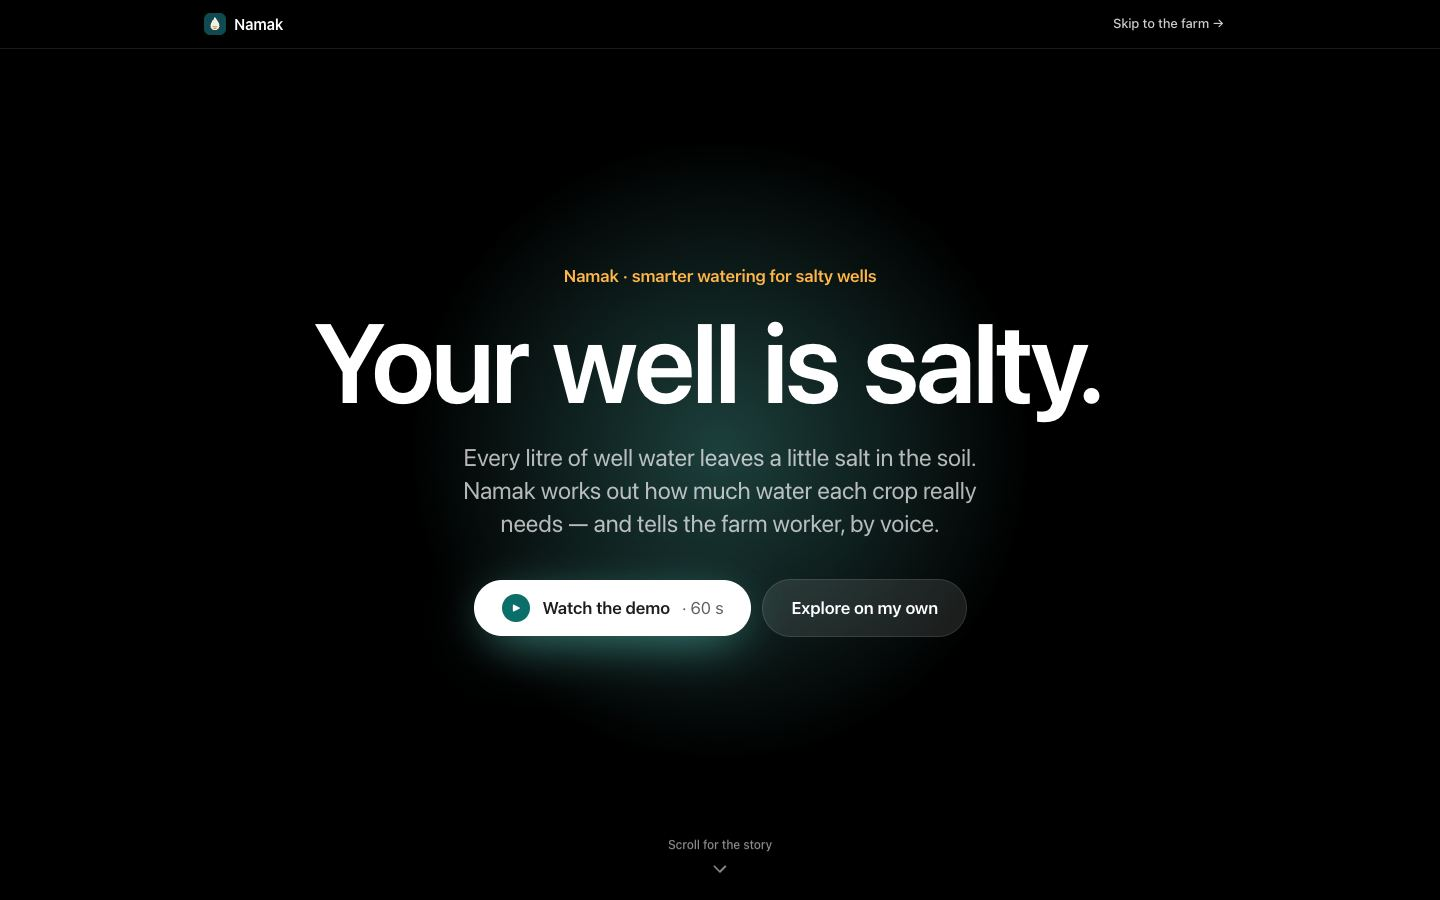
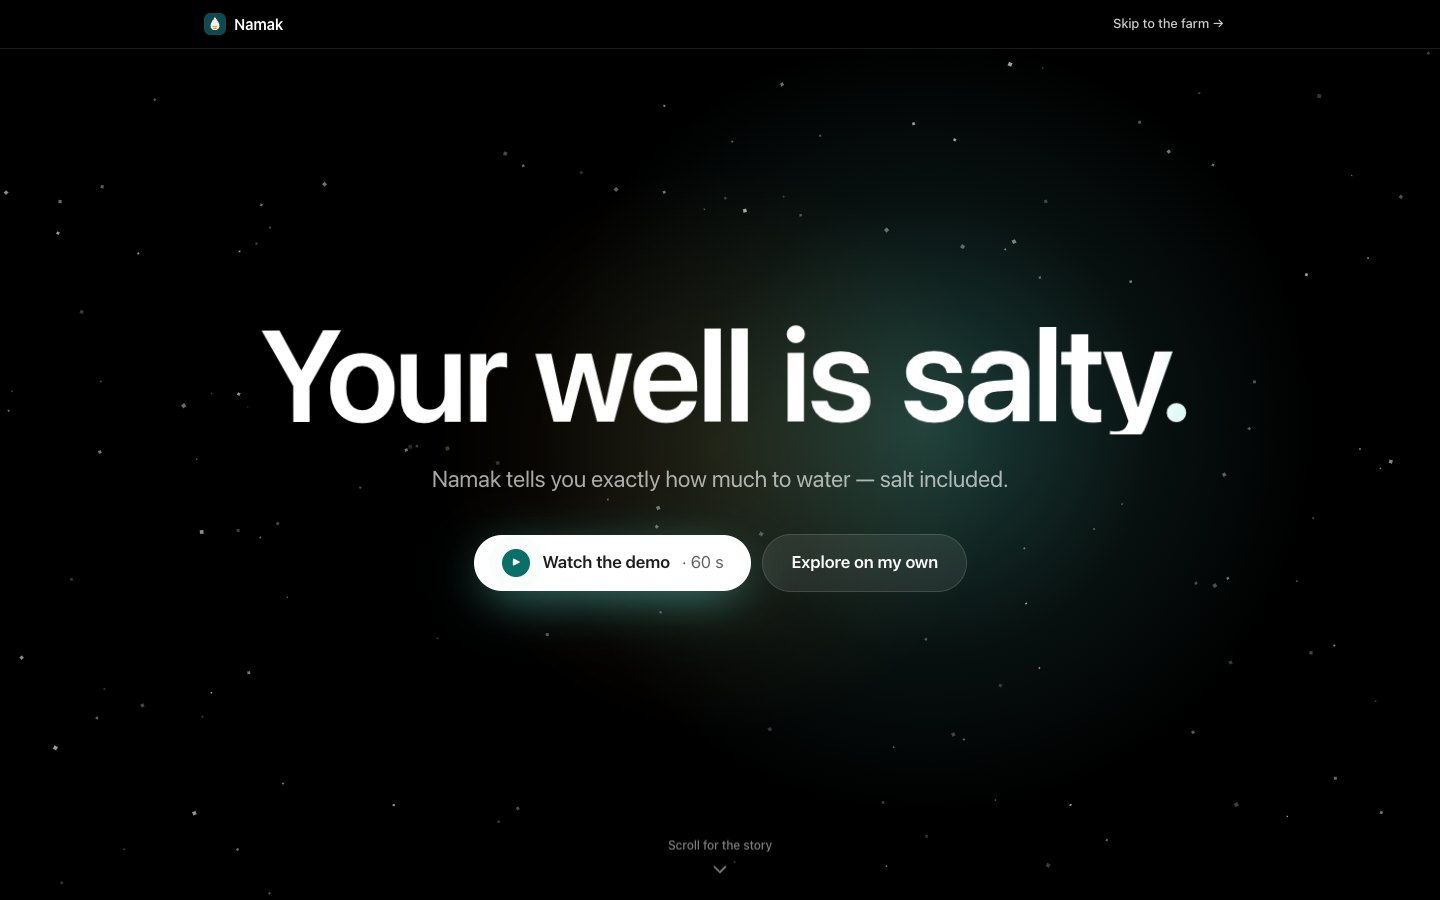
Clean repo for judges: README rewritten with the live link up top; personal notes untracked; new screenshots

Changed region(s): [[0.1875, 0.2489, 0.8438, 0.7467]]

diff --git a/README.md b/README.md
@@ -1,72 +1,104 @@
-# Namak — the salt-debt irrigation planner for desert farms
+<div align="center">
 
-> **Your well is salty. Every drop you pour adds to a salt debt your soil has to repay.
-> Namak tells your worker exactly how many minutes to open each valve tomorrow — and when to pay the debt down.**
+<img src="public/favicon.svg" width="76" alt="Namak logo">
 
-**Live:** https://namak-phi.vercel.app · **Problem:** Breaking Bytes A-001 “Smart Farming for the Desert” · built 16–17 Nov 2026
+# Namak
 
-*Namak* means salt in Hindi, Urdu and Persian.
+### Salt-aware irrigation for desert farms
 
-<p>
-<img src="docs/screenshots/0-welcome.jpg" width="820" alt="First screen: Your well is salty — Watch the demo or Explore on my own, scroll for the story">
+*Your well is salty. Namak tells you exactly how much to water — salt included —<br>and sends the plan to the farm worker as a voice message in their own language.*
+
+<br>
+
+<a href="https://namak-phi.vercel.app"><img src="https://img.shields.io/badge/%E2%96%B6%20%20Open%20the%20live%20app-namak--phi.vercel.app-0a6f69?style=for-the-badge" alt="Open the live app: namak-phi.vercel.app" height="40"></a>
+
+**[namak-phi.vercel.app](https://namak-phi.vercel.app)** · no login · press **Watch the demo** for a 60-second guided tour
+
+<br>
+
+![Breaking Bytes](https://img.shields.io/badge/Breaking%20Bytes-A--001%20Smart%20Farming%20for%20the%20Desert-1d1d1f?style=flat-square)
+![Tests](https://img.shields.io/badge/tests-84%20passing-2e7d32?style=flat-square)
+![Offline](https://img.shields.io/badge/works-offline-e08a1e?style=flat-square)
+![Gemini](https://img.shields.io/badge/AI-Google%20Gemini-6f62ff?style=flat-square)
+![Science](https://img.shields.io/badge/science-UN%20FAO%2029%20%C2%B7%2056%20%C2%B7%2061-0a6f69?style=flat-square)
+
+<br>
+
+<a href="https://namak-phi.vercel.app"><img src="docs/screenshots/0-welcome.jpg" width="860" alt="Namak's first screen: Your well is salty."></a>
+
+</div>
+
+<br>
+
+## At a glance
+
+| | |
+|---|---|
+| **The problem** | Desert farms water from salty wells. Every watering leaves salt in the soil, so farmers must pour extra water to wash it out — and they **guess** how much. |
+| **What Namak does** | Works out tomorrow’s exact minutes for every valve from the real weather forecast, the crop and the well’s saltiness — water for the plant **plus** just enough to wash the salt away. |
+| **Who it reaches** | The person who actually opens the valves: a hired worker, often in another language. Namak sends the plan as a **voice message in English, Hindi or Arabic**, written and voiced by Gemini. |
+| **The result** | Replayed on a real year of weather: **19 % less water**, palms too salty on **1 day instead of 120**, tomato yield **87 % → 100 %**. |
+| **What it costs** | A ~AED 100 salt meter (EC pen). No sensors, no subscription, works with no signal. |
+
+## The problem, from the start
+
+<table>
+<tr>
+<td width="50%"><img src="docs/screenshots/0b-why-salt.jpg" alt="Salt piles up around the roots until the plant can't drink"></td>
+<td width="50%"><img src="docs/screenshots/0c-washed.jpg" alt="A little extra water washes the salt down past the roots"></td>
+</tr>
+<tr>
+<td><b>The water goes, the salt stays.</b> Plants drink the well water and the sun dries the soil, but the salt is left behind. Day after day it piles up around the roots until the plant can’t drink — even in wet soil — and the harvest shrinks.</td>
+<td><b>The fix is a little extra water</b> that soaks past the roots and carries the salt down. Too little and the salt comes back; too much wastes water the desert can’t spare. The right amount changes with the well, the crop and every day’s weather.</td>
+</tr>
+</table>
+
+Everyone asks *“how much water does the crop need?”* In the desert that is only half the question. Namak is built around
+three problems hidden inside it:
+
+1. **Salt is the hidden water cost.** The extra water needed to wash salt out — FAO’s *leaching requirement* — is real,
+   large and never calculated on the farm. On the example farm it is **2,230 m³ a year, almost a fifth of all its water.**
+2. **Salt builds up like a debt.** Watering by habit (the same minutes every day) over-waters in winter and under-washes in
+   summer, so salt accumulates for months. Namak keeps a running **Salt Debt** for each crop and pays it back on the
+   **coolest days of the week**, when plants drink least — timing the UN’s FAO explicitly recommends.
+3. **The decision-maker isn’t at the valve.** The owner plans; a hired worker opens the valves. Namak speaks to the
+   worker directly, by voice, in their language — and the worker closes the loop with one photo of a cheap salt meter.
+
+## What’s in the app
+
+<p align="center">
+<img src="docs/screenshots/1-tomorrow.jpg" width="190" alt="Plan: tomorrow's minutes per valve">&nbsp;
+<img src="docs/screenshots/2-habit-vs-namak.jpg" width="190" alt="Results: water saved">&nbsp;
+<img src="docs/screenshots/3-replay.jpg" width="190" alt="Results: last year replayed">&nbsp;
+<img src="docs/screenshots/4-worker.jpg" width="190" alt="AI assistant: the farmer's chat in Hindi">
 </p>
-<p>
-<img src="docs/screenshots/1-tomorrow.jpg" width="200" alt="Tomorrow screen: total watering time, habit vs Namak, send to worker">
-<img src="docs/screenshots/2-habit-vs-namak.jpg" width="200" alt="Habit vs Namak: salt costs this farm 2,230 m³ of water a year">
-<img src="docs/screenshots/3-replay.jpg" width="200" alt="Season replay on ERA5 weather: water and salt debt, habit vs Namak">
-<img src="docs/screenshots/4-worker.jpg" width="200" alt="AI assistant: the farmer’s chat with Namak, voice message in Hindi">
-</p>
-
----
-
-## The problem inside the problem
-
-Everyone asks *“how much water does the crop need?”* In the desert that is only half the question.
-
-1. **Salt is the hidden water cost.** Many desert wells are brackish. To stop salt building up, some water
-   must drain past the roots and carry the salt away — the *leaching requirement* (FAO-29). Growers guess it: too little
-   and the soil slowly poisons the crop; too much and the scarcest input on the farm is wasted. Nobody calculates it.
-2. **Salt Debt.** Every litre of brackish water leaves salt behind. Namak keeps a running balance of root-zone salt
-   against each crop’s tolerance — a debt — and schedules the repayment (extra leaching) on the coolest days of the week,
-   when the crop is using least water. FAO-29 explicitly supports this timing (see [Debt repayment](#debt-repayment-is-it-allowed)).
-3. **The decision-maker isn’t at the valve.** The owner decides; a hired worker — who may not read English — opens the
-   valves by habit (“45 minutes, every day”). Namak sends tomorrow’s exact minutes as a **voice note in the worker’s
-   language**, and the worker closes the loop by photographing a ~AED 100 EC pen. AI reads the display; the plan updates.
-
-## What it does (6 screens, mobile-first, no login)
-
-First visit opens the story page (“Your well is salty.”) with two buttons: **Watch the demo (60 s)** — a guided walkthrough
-that drives the real app by itself with plain-English captions (the slider moves, a meter photo is read and confirmed, the
-voice message plays; the farm is restored afterwards) — or **Explore on my own**. Scrolling down tells the story.
-The menu has four items: **Plan · Results · ✦ AI assistant · How it works** (farm settings behind the gear icon).
-Every screen explains the idea from scratch in everyday words; the technical maths sits behind “How we worked this out”.
-
 
 | Screen | What you see |
 |---|---|
-| **Plan** (tomorrow) | Total watering time, a card per valve (“Valve 1 · Palms · 95 min · 00:00 → 01:35”), one-line *why* (heat + salt), a Salt Debt gauge, blend advice, and the 7-day plan with repayment days marked. |
-| **Results · Water saved** | A year of real weather at the farm. Drag the **well-EC slider** and the salt water cost, water/AED saved and yield risk change live; when the water is too salty for a crop, Namak shows the RO/TSE **blend ratio**. |
-| **Results · Last year replayed** | Last year re-run day by day on **ERA5 reanalysis weather**: cumulative water and root-zone salt, habit vs Namak, animated. This is the proof that the decision beats the guess. |
-| **✦ AI assistant** | The farmer’s chat with Namak (Gemini) on a phone mock-up. Namak asks for a language (English, Hindi, Arabic; it replies in that language with an English line under it) → the farmer sends one of three example salt-meter photos → Gemini reads it → the farmer confirms → the plan recalculates with a visible before/after → Gemini writes tomorrow’s times in that language and sends them as a voice message. |
-| **Farm** (gear icon) | Location, well EC, blend water, valves (crop, plants, spacing, emitters, flow), soil test, the worker’s habit. Saved on the phone. |
-| **Why it works** | Sources, formulas, crop constants, real vs illustrative, limits, cost. |
+| **Story** (first screen) | “Your well is salty.” — a scroll-through explanation of the problem, with a 60-second **guided demo** that drives the real app by itself. |
+| **Plan** | Tomorrow’s total watering time and a card per valve (“Valve 1 · Palms · 95 min · 00:00 → 01:35”) with a one-line *why*, the Salt Debt gauge and the 7-day plan with repayment days marked. |
+| **Results · Water saved** | A real year at the farm. Drag the **well-salt slider** and watch the salt’s share of the water, the water and money saved and the yield risk change live; if the well is too salty for a crop, Namak suggests a blend with cleaner water. |
+| **Results · Last year replayed** | Last year re-run day by day on **ERA5 reanalysis weather**: water used and root-zone salt, habit vs Namak. The proof that the decision beats the guess. |
+| **✦ AI assistant** | The farmer’s chat with Namak on a phone: pick a language → send a photo of the salt meter → Gemini reads it → confirm → the plan recalculates (before/after shown) → Gemini writes tomorrow’s times in that language and sends them as a **voice message**. |
+| **How it works** | Sources, formulas, crop constants, what is real vs illustrative, limits and cost. |
+| **Farm** (gear icon) | Location, well salt level, valves, crops, emitters, soil test and the worker’s habit. Saved on the phone. |
 
-## Does the decision beat the guess?
+## Does it beat the guess?
 
-Illustrative demo farm near Al Ain (30 date palms, 1 000 m² fodder, 600 m² tomato; well 3.2 dS/m), replayed on **real
-ERA5 weather, 11 Nov 2025 – 10 Nov 2026** (tomato: its Oct–Mar season). Habit = the worker’s summer setting left on all year.
+An example farm near Al Ain (30 date palms, 1,000 m² fodder, 600 m² tomato; well 3.2 dS/m), replayed on **real ERA5
+weather, 11 Nov 2025 – 10 Nov 2026** (tomato: its Oct–Mar season). *Habit* = the worker’s summer setting left on all year.
 
 | | Habit | Namak |
-|---|---|---|
-| Water, whole farm, 12 months | 14 686 m³ | **11 904 m³ (−19 %, ≈ AED 4 170/yr)** |
-| Of which spent flushing salt | not budgeted | 2 230 m³ (the hidden cost, now visible) |
+|---|---:|---:|
+| Water, whole farm, 12 months | 14,686 m³ | **11,904 m³ (−19 %, ≈ AED 4,170 / yr)** |
+| Of which spent washing out salt | not budgeted | **2,230 m³** — the hidden cost, made visible |
 | Date palm: days with root-zone salt over the limit | 120 | **1** |
 | Fodder: days over the limit | 89 | **0** |
-| Tomato: salt-limited yield | 87 % | **100 %** (needs 36 % RO water in the blend; uses ~2 % more water than habit) |
+| Tomato: salt-limited yield | 87 % | **100 %** |
 
-These numbers are asserted in [`src/engine/demo-claims.test.ts`](src/engine/demo-claims.test.ts) so they cannot drift
-silently. Namak is **not** always the lower-water option: on the salt-sensitive tomato it spends slightly more water and
-saves the crop. That is the point — water goes where the salt demands it, not where habit puts it.
+These numbers are asserted in [`src/engine/demo-claims.test.ts`](src/engine/demo-claims.test.ts), so they cannot drift.
+Namak is **not** always the lower-water option: for the salt-sensitive tomato it uses ~2 % *more* water (with 36 %
+cleaner RO water in the blend) and saves the crop. Water goes where the salt demands it, not where habit puts it.
 
 ## How it works
 
@@ -77,7 +109,7 @@ flowchart LR
     E[ERA5 via Open-Meteo<br/>last ~13 months]
     W[Well EC<br/>pen photo or manual]
   end
-  subgraph Engine["src/engine (pure TypeScript, 79 tests)"]
+  subgraph Engine["src/engine (pure TypeScript, 84 tests)"]
     K[Kc by stage + climate<br/>FAO-56 T11/T12, eq. 62]
     L[Leaching fraction<br/>FAO-29 four-layer method]
     S[Salt Debt<br/>FAO-61 Annex 4 salt storage]
@@ -92,12 +124,56 @@ flowchart LR
   E --> P
   W --> L --> P
   S <--> P
-  P --> UI[PWA: Tomorrow · Compare · Replay · Worker]
+  P --> UI[PWA: Plan · Results · AI assistant]
   UI --> I --> V
   UI -->|photo| R -->|confirmed| W
 ```
 
-### Formulas (units: mm over crop area, 1 mm on 1 m² = 1 L; EC in dS/m)
+- **Engine** — pure TypeScript in [`src/engine`](src/engine): crop water need (FAO-56), the leaching fraction (FAO-29),
+  a daily root-zone salt balance (FAO-61) and a planner that repays the salt debt on the lowest-evaporation days. Every
+  crop constant cites its FAO table; 84 tests include FAO’s own worked examples.
+- **Data** — the Open-Meteo forecast and ERA5 history. A recorded snapshot is bundled, so every screen works offline and
+  the demo shows the same numbers every day.
+- **AI** — three small server-side routes on Vercel. The engine decides the minutes; AI only translates, speaks and reads
+  a meter display.
+
+## How AI is used — Google Gemini, server-side only
+
+| Route | Model | What it does | Guard rails |
+|---|---|---|---|
+| `/api/instruct` | `gemini-4-hydrogen` | Turns the plan into two short sentences in the worker’s language | Every minute and start time is checked against the plan; any mismatch, timeout or no signal → a fixed template |
+| `/api/voice` | `gemini-3.8-flash-lite-tts` | Reads those sentences aloud as a voice message | Cached on the phone; fallback: the phone’s own voice |
+| `/api/read-ec` | `gemini-4-hydrogen` (vision, strict JSON) | Reads the number and unit off a salt-meter photo | Units converted (mS/cm = dS/m, µS/cm ÷ 1000), only 0–20 dS/m accepted, the farmer confirms before anything changes |
+
+The API key lives only in Vercel’s environment; per-IP limits and a daily cap protect it. Gemini’s output for the demo
+(9 voice messages in 3 languages and the readings of the 3 example meter photos) was generated once and is reused from
+[`public/demo`](public/demo) and [`src/data/demoAssets.json`](src/data/demoAssets.json) — the guided demo makes **no AI
+calls**, and a test fails if an engine change ever makes a saved message disagree with the plan.
+
+## Built for the desert
+
+- **Saves water** — −19 % on the example farm over a real year, with the salt share of every litre made visible.
+- **Weak signal, little time** — an installable web app that works fully offline after one visit (“Offline — plan synced …”
+  banner). One sync a week covers a 7-day plan. The worker needs no reading and no app: just a voice message.
+- **Affordable** — a ~AED 100 EC pen is the only hardware. AI calls are tiny and capped.
+
+## What is real, what is illustrative
+
+| Real | Illustrative |
+|---|---|
+| 7-day forecast: Open-Meteo (ET0, max temperature, min humidity, wind, sunrise) | The example farm’s layout, crops, emitters and the worker’s habit |
+| Historical weather: ERA5 reanalysis via Open-Meteo | Well salt level (3.2 dS/m) and soil tests |
+| FAO crop and salt constants and equations | Water price (AED 1.5 / m³) and the clean-water blend source |
+| Gemini’s messages, voices and meter readings | The three example meter photos are drawings made for the demo |
+
+Every number in the app carries a source label (“Live forecast · Open-Meteo”, “Historical weather · ERA5”, “Illustrative well EC”).
+
+<details>
+<summary><b>The science in detail — formulas, FAO validation, debt repayment, crop constants</b></summary>
+
+<br>
+
+#### Formulas (units: mm over crop area, 1 mm on 1 m² = 1 L; EC in dS/m)
 
 | Step | Formula | Source |
 |---|---|---|
@@ -123,7 +199,7 @@ for every crop.
 crop limit (≈ 4.5 vs 4.0 dS/m for palms at 3.2 dS/m water). Namak uses FAO-29’s more exact four-layer method so the
 daily plan and the debt model agree; eq. 9 is still computed and shown for comparison.
 
-### Debt repayment: is it allowed?
+#### Debt repayment: is it allowed?
 
 Yes. FAO-29 §2.4.2: leaching *“can be done at each irrigation, each alternate irrigation or less frequently, such as
 seasonally … as necessary to keep salinity below the threshold”*, and *“schedule leachings at periods of low crop water
@@ -134,7 +210,7 @@ doubling a day’s water so no valve is flooded.
 Valves run one after another (one pump) at night, finishing by sunrise. Night/pre-dawn timing is a design choice, not an
 FAO number: evaporation and wind losses are lowest and the water is in the root zone before the afternoon peak.
 
-### Crop constants (all read from the primary FAO pages on 16 Nov 2026)
+#### Crop constants (all read from the primary FAO pages on 16 Nov 2026)
 
 | Crop | Kc ini / mid / end (FAO-56 T12) | Stages, days (FAO-56 T11) | Root depth used, m (T22) | ECe 100 % / 90 % / 0 % (FAO-29 T4) | b, %/dS·m⁻¹ (FAO-56 T23) |
 |---|---|---|---|---|---|
@@ -149,58 +225,12 @@ Other constants: sand field capacity θFC = 0.12 (FAO-56 Table 19 midpoint of 0.
 table; it is editable in Farm setup. Rhodes grass (the usual UAE fodder) is in neither FAO salt table, so Bermuda grass,
 the nearest listed fodder grass, stands in for it.
 
-## Data: what is real, what is illustrative
+</details>
 
-| Real | Illustrative |
-|---|---|
-| 7-day forecast: Open-Meteo (`et0_fao_evapotranspiration`, `temperature_2m_max`, `relative_humidity_2m_min`, `wind_speed_10m_mean`, `sunrise`) | The demo farm’s layout, crops, emitters and the worker’s habit |
-| Historical weather: ERA5 reanalysis via Open-Meteo Archive API (`models=era5`) | Well EC (3.2 dS/m) and soil tests |
-| FAO crop and salt constants, FAO equations | Water price (AED 1.5/m³) and the RO blend water EC |
-| Gemini output (instructions, voice, EC reading) | The three sample EC-pen photos are drawings made for the demo |
+<details>
+<summary><b>Assumptions & limitations</b></summary>
 
-Every number in the UI carries a source tag (“Live forecast · Open-Meteo”, “Historical weather · ERA5 via Open-Meteo”,
-“Illustrative well EC”). A real-weather snapshot for the demo location is bundled so the demo works with no network.
-
-## Desert rules
-
-- **Water:** −19 % on the demo farm over a real year, and the salt share of every litre is made visible and budgeted.
-- **Weak connectivity, little time:** installable PWA; after one load every screen works offline with an
-  “Offline — plan synced …” banner; the last forecast, instructions and recorded voice notes are cached. One sync a week
-  is enough to keep a 7-day plan. The worker needs no reading and no app — a voice note.
-- **Affordable:** an EC pen (~AED 100) is the only hardware. No sensors, no subscription. AI calls are small (two sentences, a few seconds of
-  audio, one photo) and capped per day.
-
-## How AI is used (Gemini, server-side only)
-
-| Route | Model | Does | Guard rails |
-|---|---|---|---|
-| `/api/instruct` | `gemini-4-hydrogen` (thinking: low) | Plan → 2 sentences in the worker’s language | Every minute and start time is checked against the plan; if anything differs, too slow or offline → deterministic template |
-| `/api/voice` | `gemini-3.8-flash-lite-tts` | Text → voice message (WAV) | Generated only when someone presses Send, then cached on the device; fallback: the phone’s own voice |
-| `/api/read-ec` | `gemini-4-hydrogen` vision, strict JSON schema | Photo → value + unit | mS/cm = dS/m, µS/cm ÷ 1000, ppm rejected, 0–20 dS/m only. The app’s three example photos use readings this model produced once (saved in `src/data/demoAssets.json`) |
-
-The key lives only in Vercel’s environment (`GEMINI_API_KEY`); per-IP limits and a daily cap protect the quota. Model IDs
-and request formats were taken from Google’s docs on 16 Nov 2026 (Interactions API, `Api-Revision: 2026-05-20`).
-The AI never decides minutes: the engine does; AI only translates, speaks and reads a display.
-
-**All saved AI output lives in one place and is reused every day:**
-
-| What | Where |
-|---|---|
-| Gemini’s voice messages (3 example readings × English, Hindi, Arabic = 9 files, 1.3 MB) | `public/demo/voice-<reading>-<lang>.m4a` |
-| Their text, the plans they were made for, and Gemini’s readings of the three example meter photos | `src/data/demoAssets.json` |
-| The recorded real weather the site uses by default (forecast for 17 Nov 2026, ERA5 year to 10 Nov 2026) | `src/data/snapshot-forecast.json`, `src/data/snapshot-era5.json` |
-
-Re-running `scripts/make-demo-assets.mts` reuses every saved file whose plan has not changed, so it never pays twice.
-With the recorded weather (the default) the site makes no AI calls at all. Live mode is capped at 60 AI calls a day
-and shares each answer through Vercel’s CDN for 24 hours.
-
-**Generated once, reused:** the guided demo runs on a fixed *demo day* (the real forecast recorded on 16 Nov 2026). Its worker
-messages in all three languages, their voice recordings and the readings of the three example meter photos were produced once
-by Gemini (`scripts/make-demo-assets.mts`) and saved in the repo (`public/demo/`, `src/data/demoAssets.json`). The demo makes
-no AI calls, always shows the same result, and a test fails if an engine change ever makes the saved messages disagree with
-the plan. Outside the demo, a live message is generated only when someone presses *Send*, and is cached.
-
-## Assumptions & limitations
+<br>
 
 - Salt model: complete mixing within four root-zone layers, 40-30-20-10 % uptake, no capillary rise, adequate drainage,
   no salt from fertiliser or rain, no precipitation/dissolution chemistry; daily time step; soil back at field capacity
@@ -212,26 +242,20 @@ the plan. Outside the demo, a live message is generated only when someone presse
 - The demo farm is illustrative and has not been field-validated. Non-English templates have not yet been checked by
   native speakers.
 
-## Run it
+</details>
+
+## Run it locally
 
 ```bash
 npm install
-npm test            # 79 tests: engine, FAO cross-checks, demo claims, weather fallback, instruction checks
-npm run dev         # UI on http://localhost:5173 (AI routes need vercel dev)
+npm test        # 84 tests: engine, FAO cross-checks, demo claims, weather fallback, instruction checks
+npm run dev     # http://localhost:5173 (AI routes need `vercel dev` and a GEMINI_API_KEY in .env.local)
 ```
 
-With the AI routes:
+`scripts/` holds the data tools: `snapshot-weather.mjs` records the bundled weather, `make-demo-assets.mts` generates
+the saved Gemini output (reusing anything that hasn’t changed), and `warm-cache.mts` pre-fills the live AI cache.
 
-```bash
-echo "GEMINI_API_KEY=..." > .env.local         # never commit; .env* is git-ignored
-set -a; . ./.env.local; set +a; vercel dev
-```
-
-Deploy: `vercel env add GEMINI_API_KEY production`, then `vercel --prod`. Refresh the bundled weather snapshot with
-`node scripts/snapshot-weather.mjs`; regenerate the saved demo AI content with `npx tsx scripts/make-demo-assets.mts` (needs `GEMINI_API_KEY`).
-
-**Stack:** Vite · React 19 · TypeScript · Tailwind v4 · Motion (animation) · Recharts · vite-plugin-pwa · Vitest · Vercel functions · Gemini.
-Type: the device's system font (SF Pro on Apple devices), Inter elsewhere. All animation respects `prefers-reduced-motion`.
+**Stack:** Vite · React 19 · TypeScript · Tailwind CSS v4 · Motion · vite-plugin-pwa · Vitest · Vercel Functions · Google Gemini · Open-Meteo
 
 ## Sources
 
@@ -244,3 +268,12 @@ Type: the device's system font (SF Pro on Apple devices), Inter elsewhere. All a
 ## How this was built
 
 Built solo by **Aryesh Biswas** within the hackathon window, 16–17 Nov 2026 (see the commit history).
+
+<div align="center">
+<br>
+
+**[Open Namak → namak-phi.vercel.app](https://namak-phi.vercel.app)**
+
+*Pay the salt debt. Not the water bill.*
+
+</div>
